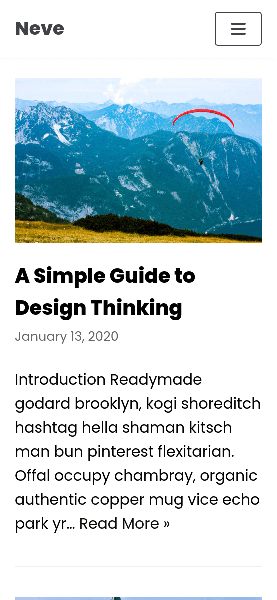
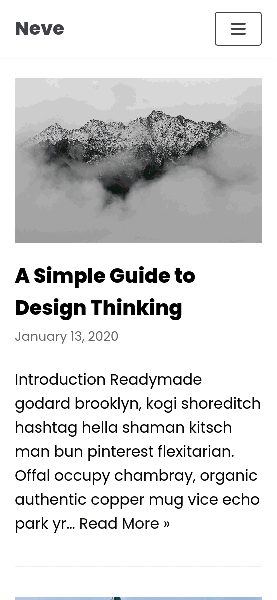
chore: use same image for amp screenshot as normal screenshot

Changed region(s): [[0.0289, 0.12, 0.9531, 0.42]]

diff --git a/readme.md b/readme.md
@@ -742,4 +742,3 @@ All  images are licensed under CC0.
 Screenshot resources:
 
 * https://www.pexels.com/photo/landscape-photography-of-mountains-covered-in-snow-691668/
-* mobile-screenshot.png contains an image sourced by one of our employees
